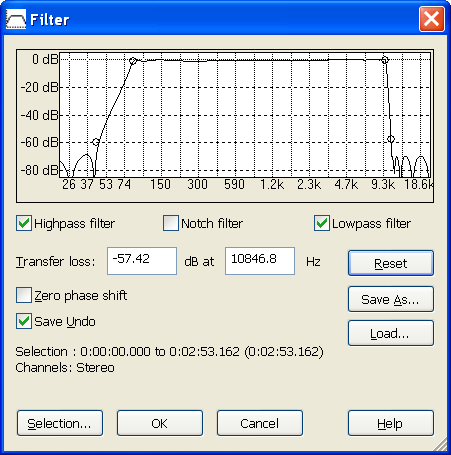
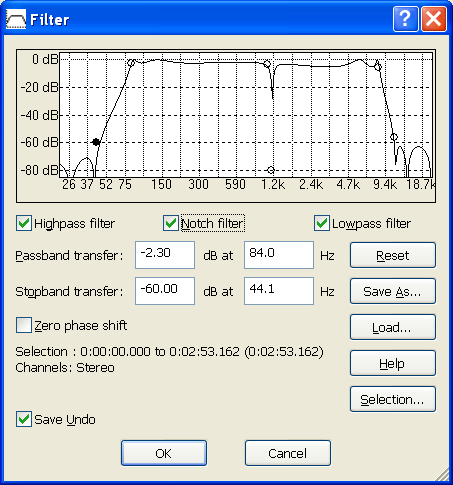
Filter dialog: Transfer loss changed as Transfer and shown as negative

diff --git a/hlp/html/Process/process_filter.htm b/hlp/html/Process/process_filter.htm
@@ -18,10 +18,11 @@ suppress one specified frequency.</P>
 
 <p>The graph shows the frequency response of the filter.</p>
 
-<p>The dialog can be resized by dragging on the border, to enlarge the graph 
-window.</p>
 <p>The frequency scale is logarithmic. This means the ratio between two adjacent 
 dotted lines is the same.</p>
+
+<p>The dialog can be resized by dragging on the border, to enlarge the graph 
+window.</p>
 <p>The filter consists of three components that can be enabled or disabled 
 separately:</p>
 <p><b>Highpass filter</b>: </p>
@@ -49,13 +50,13 @@ separately:</p>
 <p>It suppresses frequencies in the narrow stopband.</p>
 <p>Notch filter is described by two parameters:</p>
 <ul>
-  <li>Center frequency, in Hz. The filter has infinite loss on this frequency;</li>
-  <li>3dB passband width, in Hz. The graph shows lower boundary of the band.</li>
+  <li>Center frequency, in Hz. The filter has theoretical zero transfer on this frequency;</li>
+  <li>passband width on -3dB transfer, in Hz. The graph shows lower boundary of the band.</li>
 </ul>
+<p>Parameters of the filters can be set either by entering them in the edit 
+boxes, or by using the mouse to dragg the reference points on the graph.</p>
 <p>Each filter has two reference pointes. One is on the passband boundary, 
-another is on the stopband. </p>
-<p>Mouse can be used to adjust the filters' parameters, by dragging 
-the reference points on the graph.</p>
+another is on the stopband.</p>
 <p>You can drag them up and down, increasing or 
 decreasing desired signal loss. You can drag them sideways, changing the 
 boundary frequencies. Dragging a reference point while holding <b>Ctrl</b> key 
@@ -66,14 +67,17 @@ small blinking circle. <b>Left arrow</b> and <b>right arrow</b> keys switch the
 focus to the next reference point. <b>Shift+Left Arrow</b> and <b>Shift+Right 
 Arrow </b>keys move a reference point on the frequency axis. <b>Ctrl+Left Arrow</b> 
 and <b>Ctrl+Right Arrow </b>keys move both reference points at the same time, 
-keeping constant ratio between them. <b>Up Arrow </b>&nbsp;and <b>&nbsp;Down 
-Arrow </b>move the reference point by 1 dB at a time.</p>
+keeping constant ratio between them. <b>Up Arrow </b>and <b>&nbsp;Down 
+Arrow </b>keys move the reference point by 1 dB at a time.</p>
 
 <p><b>Highpass filter</b>, <b>Notch Filter</b> and <b>Lowpass Filter</b> 
 checkboxes enable the corresponding filters. </p>
-<p><b>Transfer loss</b> edit box specifies minimum (for stopband) or maximum 
-(for passband) loss at the selected filter point, which is shown as a small 
-black circle. An edit box next to it specifies its corresponding frequency.</p>
+<p><b>Passband transfer </b>edit box specifies maximum 
+loss for the selected filter, whose reference point is shown as a small 
+black circle. Valid range is from -20 dB to 0. An edit box next to it specifies its corresponding frequency.</p>
+<p><b>Stopband transfer</b> edit box specifies minimum loss for the selected filter, 
+whose reference point is shown as a small black circle. Valid range is from -120 
+dB to 0. An edit box next to it specifies its corresponding frequency.</p>
 <p><b>Zero phase shift</b> checkbox selects whether the filter should have no 
 phase distortion. The command then takes more time to execute.</p>
 <p><b>Reset </b>button returns all filters to default parameters..</p>
